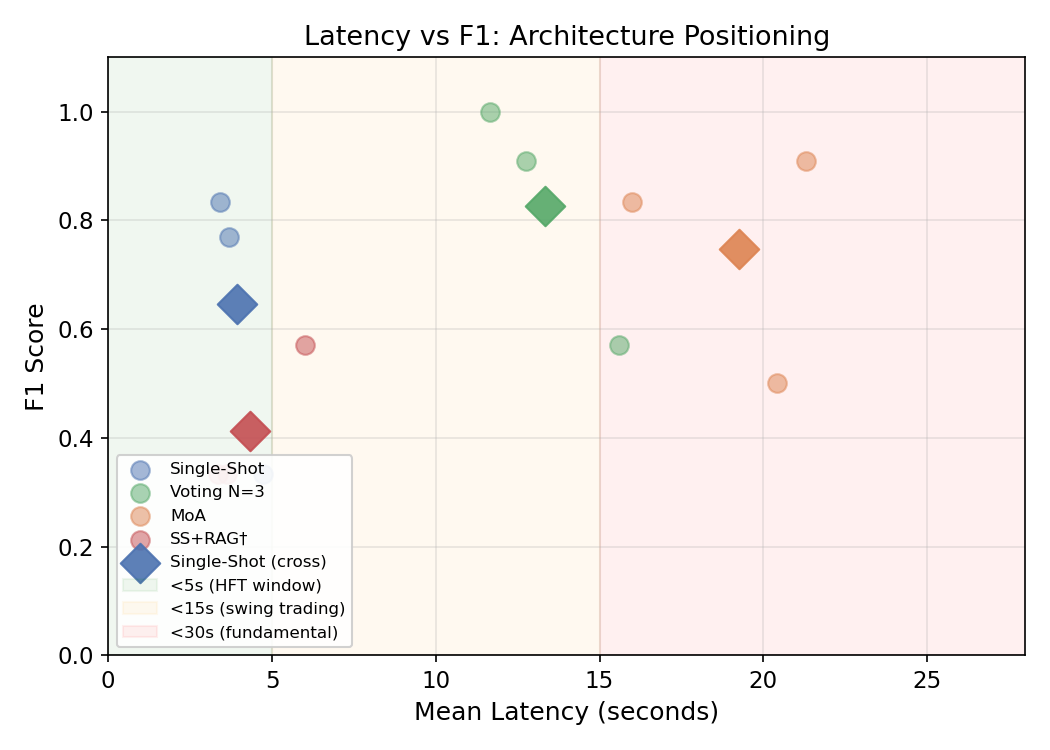
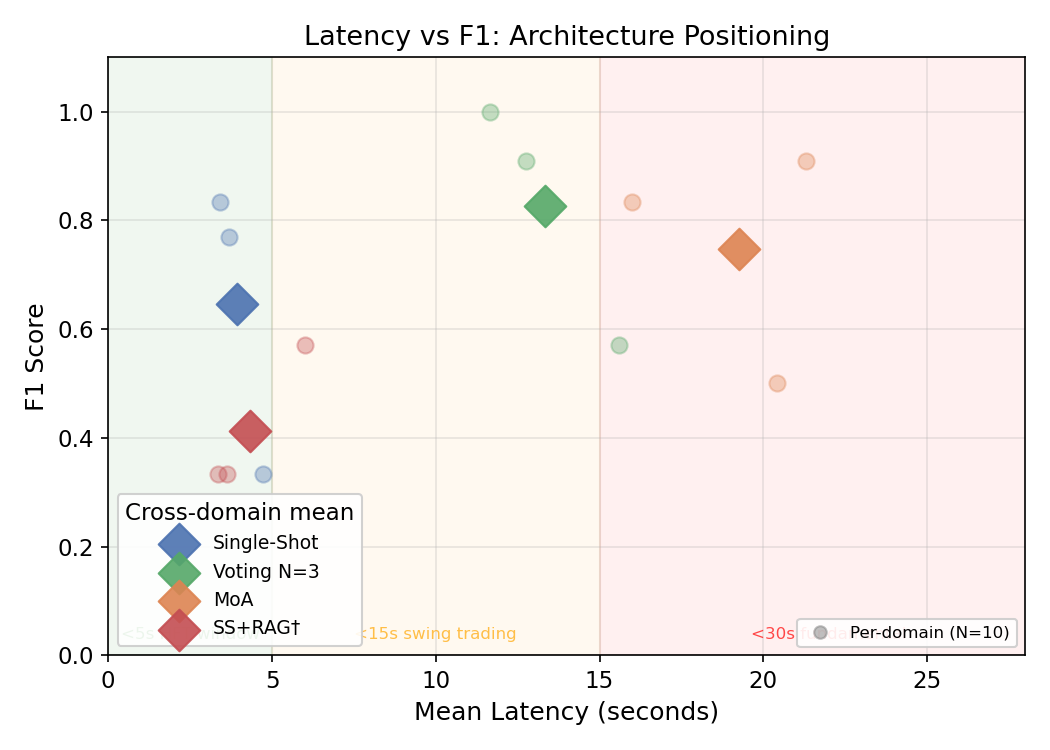
fix: clarify latency-F1 scatter with dual legend

diff --git a/src/plot_phase11.py b/src/plot_phase11.py
@@ -184,41 +184,50 @@ def plot_expected_cost(cross):
 def plot_latency_f1(data, cross):
     fig, ax = plt.subplots(figsize=(7, 5))
 
-    for d in DOMAINS + ["cross"]:
-        suffix = " (cross)" if d == "cross" else ""
+    # Per-domain points (small circles, lighter)
+    for d in DOMAINS:
         for i, a in enumerate(ARCHS):
-            if d == "cross":
-                if a not in cross:
-                    continue
-                lat = cross[a]["lat"]
-                f1v = cross[a]["f1"]
-                marker = "D"
-                s = 180
-                alpha = 0.9
-            else:
-                if a not in data.get(d, {}):
-                    continue
-                lat = data[d][a]["lat"]
-                f1v = data[d][a]["f1"]
-                marker = "o"
-                s = 80
-                alpha = 0.5
+            if a not in data.get(d, {}):
+                continue
+            lat = data[d][a]["lat"]
+            f1v = data[d][a]["f1"]
+            ax.scatter(lat, f1v, s=60, c=[ARCH_COLORS[i]], marker="o",
+                       alpha=0.35, zorder=3)
 
-            ax.scatter(lat, f1v, s=s, c=[ARCH_COLORS[i]], marker=marker,
-                       alpha=alpha, zorder=5,
-                       label=f"{ARCH_LABELS[i]}{suffix}" if d == "finance" or (d == "cross" and i == 0) else "")
+    # Cross-domain means (large diamonds, full opacity)
+    cross_legend = []
+    for i, a in enumerate(ARCHS):
+        if a not in cross:
+            continue
+        lat = cross[a]["lat"]
+        f1v = cross[a]["f1"]
+        h = ax.scatter(lat, f1v, s=200, c=[ARCH_COLORS[i]], marker="D",
+                       alpha=0.9, zorder=5, label=ARCH_LABELS[i])
+        cross_legend.append(h)
 
-    # Annotate latency budget zones
-    ax.axvspan(0, 5, alpha=0.06, color="green", label="<5s (HFT window)")
-    ax.axvspan(5, 15, alpha=0.06, color="orange", label="<15s (swing trading)")
-    ax.axvspan(15, 30, alpha=0.06, color="red", label="<30s (fundamental)")
+    from matplotlib.lines import Line2D
+    pd_handle = Line2D([0], [0], marker="o", color="gray",
+                       linestyle="", markersize=6, alpha=0.5,
+                       label="Per-domain (N=10)")
+
+    # Latency budget zones (no labels in legend — use text annotations)
+    ax.axvspan(0, 5, alpha=0.06, color="green")
+    ax.axvspan(5, 15, alpha=0.06, color="orange")
+    ax.axvspan(15, 30, alpha=0.06, color="red")
+    ax.text(2.5, 0.03, "<5s HFT window", ha="center", fontsize=8, color="green", alpha=0.7)
+    ax.text(10, 0.03, "<15s swing trading", ha="center", fontsize=8, color="orange", alpha=0.7)
+    ax.text(22, 0.03, "<30s fundamental", ha="center", fontsize=8, color="red", alpha=0.7)
 
     ax.set_xlabel("Mean Latency (seconds)")
     ax.set_ylabel("F1 Score")
     ax.set_title("Latency vs F1: Architecture Positioning")
     ax.set_xlim(0, 28)
     ax.set_ylim(0, 1.1)
-    ax.legend(loc="lower left", framealpha=0.9, fontsize=8)
+
+    lgnd1 = ax.legend(handles=cross_legend, loc="lower left",
+                      framealpha=0.9, fontsize=9, title="Cross-domain mean")
+    ax.add_artist(lgnd1)
+    ax.legend(handles=[pd_handle], loc="lower right", framealpha=0.9, fontsize=8)
     ax.grid(True, alpha=0.3)
     fig.tight_layout()
     path = os.path.join(OUT_DIR, "phase11_latency_f1.png")

diff --git a/docs/meeting_evidence_map.md b/docs/meeting_evidence_map.md
@@ -231,7 +231,7 @@ MoA provides the best calibration (lowest ECE) despite not having the best class
 | SS+RAG (prototype) | 3.4-6.0s | ✅ Fits 5s | Fast but inaccurate; see correction |
 
 ![Latency vs F1](../plots/phase11_latency_f1.png)
-*Figure 3: Latency-F1 scatter with latency budget zones. Single-Shot is the only architecture inside the <5s HFT window. Voting N=3 dominates the 5-15s swing-trading zone. MoA and SS+RAG are never optimal within their feasibility windows.*
+*Figure 3: Latency-F1 scatter with latency budget zones (color-coded background). Diamonds = cross-domain mean (N=30); small circles = per-domain values (N=10). Single-Shot is the only architecture inside the <5s HFT window. Voting N=3 dominates the 5-15s swing-trading zone. MoA and SS+RAG are never optimal within their feasibility windows.*
 
 ### Policy Sensitivity (Phase 8 — Mock Mode)
 - **Cost ratio (86.3% variance)**: Dominates all other parameters. The ratio of false-positive cost to false-negative cost determines optimal policy.
